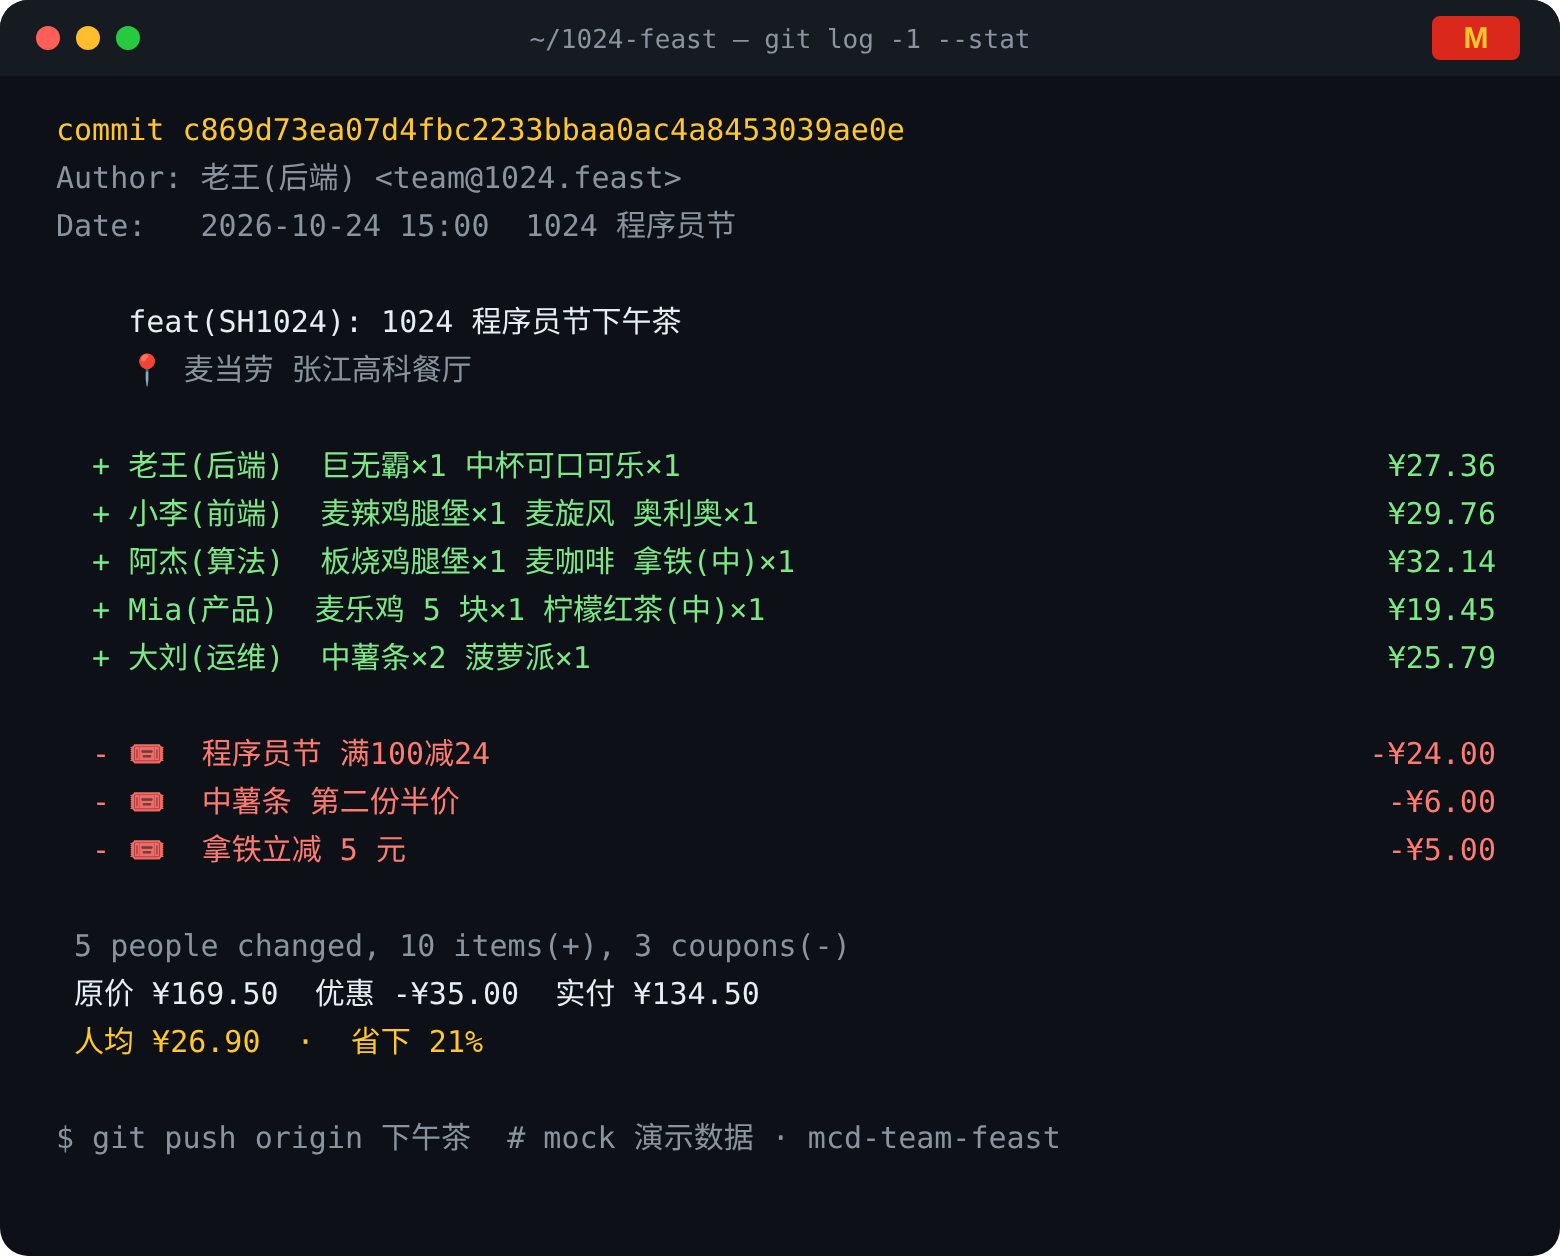
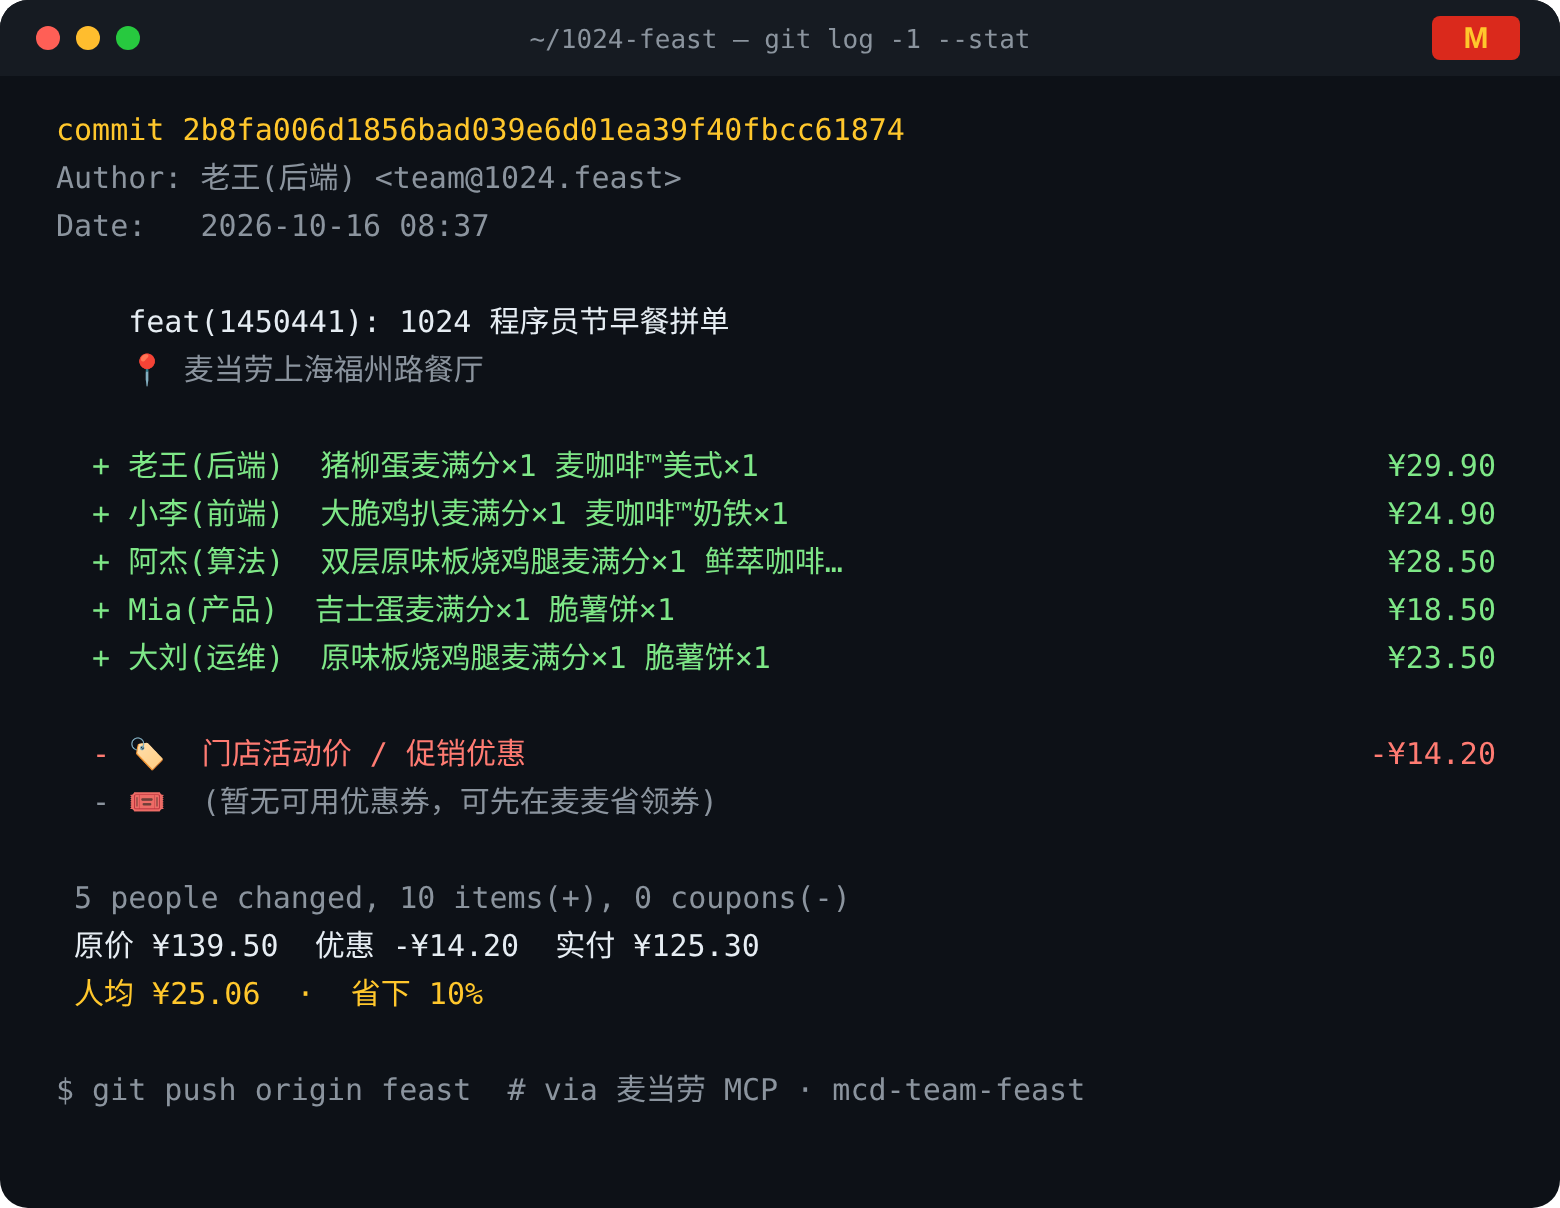
feat: 接入真实麦当劳 MCP schema，修正参数与返回解析，真实数据账单卡

diff --git a/src/providers.js b/src/providers.js
@@ -43,38 +43,85 @@ export function findArray(obj, keys = []) {
   for (const v of Object.values(obj)) { const a = findArray(v, keys); if (a.length) return a; }
   return [];
 }
-const pick = (o, ...ks) => { for (const k of ks) if (o?.[k] != null) return o[k]; };
 
-export class McpProvider {
-  constructor(opts) { this.mode = 'live'; this.c = new McpClient(opts); this.calls = []; }
-  async call(t, a) { this.calls.push({ tool: t, args: a }); return this.c.call(t, a); }
-  async now() { return this.call('now-time-info', {}); }
-  async stores(keyword) {
-    const r = await this.call('query-nearby-stores', { keyword, address: keyword });
-    return findArray(r, ['stores', 'list', 'data']).map(s => ({
-      storeCode: pick(s, 'storeCode', 'code', 'id'), storeName: pick(s, 'storeName', 'name'), address: pick(s, 'address', 'addr'), distance: pick(s, 'distance'),
-    }));
-  }
-  async menu(storeCode) {
-    const r = await this.call('query-meals', { storeCode });
-    return findArray(r, ['meals', 'products', 'items', 'list']).map(m => ({
-      code: String(pick(m, 'code', 'productCode', 'mealCode', 'id')), name: pick(m, 'name', 'productName', 'mealName'),
-      price: Number(pick(m, 'price', 'salePrice', 'currentPrice') ?? 0), category: pick(m, 'category', 'categoryName') ?? '',
-    }));
-  }
-  async coupons(storeCode) {
-    const r = await this.call('query-store-coupons', { storeCode });
-    return findArray(r, ['coupons', 'list']).map(c => ({ id: String(pick(c, 'couponId', 'id', 'couponCode')), title: pick(c, 'title', 'couponName', 'name'), type: 'remote', raw: c }));
-  }
-  async price(storeCode, items, coupons) {
-    const r = await this.call('calculate-price', { storeCode, items: items.map(i => ({ productCode: i.code, quantity: i.qty })), couponIds: coupons.map(c => c.id) });
-    const y = k => fen(pick(r, ...k) ?? pick(r?.data, ...k) ?? 0);
-    const subtotal = y(['productAmount', 'originalAmount', 'subtotal', 'totalAmount']);
-    const total = y(['payAmount', 'realAmount', 'total', 'finalAmount']);
-    const fee = y(['deliveryFee']);
-    return { subtotal, discount: Math.max(0, subtotal + fee - total), total, fee, applied: coupons.map(c => ({ id: c.id, title: c.title })), raw: r };
-  }
-  async createOrder(payload) { return this.call('create-order', payload); }
+// 到店自取场景：orderType=1, beType=1（真实 schema 来自 tools/list）
+const SCENE = { orderType: 1, beType: 1 };
+const unwrap = r => (r && typeof r === 'object' && 'data' in r ? r.data : r);
+
+export function normalizeStores(r) {
+  return findArray(unwrap(r), ['data', 'stores']).map(s => ({
+    storeCode: String(s.storeCode), storeName: s.storeName, address: s.address, distance: s.distance, beCode: s.beCode || undefined,
+  }));
 }
 
-export function makeProvider({ mock }) { return mock ? new MockProvider() : new McpProvider(); }
+// query-meals 返回 { categories:[{name, meals:[{code}]}], meals:{code:{name,currentPrice,originalPrice,discountType}} }
+export function normalizeMenu(r) {
+  const d = unwrap(r) || {}; const detail = d.meals || {}; const seen = new Set(); const out = [];
+  for (const cat of d.categories || []) for (const { code } of cat.meals || []) {
+    const m = detail[code]; if (!m || seen.has(code)) continue; seen.add(code);
+    // “随单购xx卡优惠”价需额外购卡才能享受，拼单场景按原价计
+    const price = Number(String(m.discountType || '').includes('随单购') ? (m.originalPrice ?? m.currentPrice) : m.currentPrice);
+    out.push({ code: String(code), name: m.name, price, category: String(cat.name).replace(/\s+/g, ' ') });
+  }
+  return out;
+}
+
+// query-store-coupons 返回 data[]：{couponId, couponCode, title, products:[{productCode}]}，同一 couponId 可有多张券码
+export function normalizeCoupons(r) {
+  const groups = new Map();
+  for (const c of findArray(unwrap(r), ['data', 'coupons'])) {
+    const id = String(c.couponId);
+    const g = groups.get(id) || { id, title: c.title, type: 'item', codes: [], itemCodes: (c.products || []).map(p => String(p.productCode)) };
+    if (c.couponCode) g.codes.push(String(c.couponCode)); groups.set(id, g);
+  }
+  return [...groups.values()];
+}
+
+// 把券挂到对应商品行：拆出 1 份带 couponId/couponCode 的商品
+export function buildPriceItems(items, coupons = []) {
+  const lines = items.map(i => ({ productCode: i.code, quantity: i.qty }));
+  for (const c of coupons) {
+    const line = lines.find(l => !l.couponId && c.itemCodes?.includes(l.productCode) && l.quantity >= 1);
+    if (!line) return null;
+    line.quantity -= 1;
+    lines.push({ productCode: line.productCode, quantity: 1, couponId: c.id, ...(c.codes?.[0] ? { couponCode: c.codes[0] } : {}) });
+  }
+  return lines.filter(l => l.quantity > 0);
+}
+
+// calculate-price 返回金额单位为“分”
+export function normalizePrice(r, coupons = []) {
+  const d = unwrap(r) || {};
+  const subtotal = Number(d.productOriginalPrice ?? d.originalPrice ?? 0);
+  const total = Number(d.price ?? 0);
+  const fee = Number(d.deliveryFee ?? d.deliveryPrice ?? 0);
+  return { subtotal, total, fee, discount: Math.max(0, Number(d.discount ?? (subtotal + fee - total))), applied: coupons.map(c => ({ id: c.id, title: c.title })), takeWayList: d.takeWayList || [] };
+}
+
+export class McpProvider {
+  constructor(opts) { this.mode = 'live'; this.c = new McpClient(opts); this.calls = []; this.city = opts?.city; }
+  async call(t, a) { this.calls.push({ tool: t, args: a }); return this.c.call(t, a); }
+  async now() {
+    const d = unwrap(await this.call('now-time-info', {})) || {};
+    const [date, time] = String(d.formatted || '').split(' ');
+    return { date, time: time?.slice(0, 5), festival: date?.endsWith('-10-24') ? '1024 程序员节' : '' };
+  }
+  async stores(keyword, city = this.city) {
+    const args = { ...SCENE, searchType: 2, ...(keyword ? { keyword } : {}), ...(city ? { city } : {}) };
+    delete args.orderType;
+    return normalizeStores(await this.call('query-nearby-stores', args));
+  }
+  async menu(storeCode) { return normalizeMenu(await this.call('query-meals', { storeCode, ...SCENE })); }
+  async coupons(storeCode) { return normalizeCoupons(await this.call('query-store-coupons', { storeCode, ...SCENE })); }
+  async price(storeCode, items, coupons = []) {
+    const lines = buildPriceItems(items, coupons);
+    if (!lines) return null;
+    return normalizePrice(await this.call('calculate-price', { storeCode, ...SCENE, items: lines }), coupons);
+  }
+  // 仅在 feast order --confirm <确认码> 时调用
+  async createOrder({ storeCode, items, coupons = [], takeWayCode = 'take-in-store' }) {
+    return this.call('create-order', { storeCode, ...SCENE, takeWayCode, items: buildPriceItems(items, coupons) });
+  }
+}
+
+export function makeProvider({ mock, city }) { return mock ? new MockProvider() : new McpProvider({ city }); }

diff --git a/test/live-shape.test.js b/test/live-shape.test.js
@@ -1,0 +1,38 @@
+// 用与真实麦当劳 MCP 返回结构一致的脱敏样例测试解析逻辑（不发起任何网络请求）
+import { test } from 'node:test';
+import assert from 'node:assert/strict';
+import { normalizeStores, normalizeMenu, normalizeCoupons, buildPriceItems, normalizePrice } from '../src/providers.js';
+import { extractJson } from '../src/mcp.js';
+
+test('从“字段说明 + 原始 JSON”文本中提取 JSON', () => {
+  const t = '## Response Structure\n- **data**: ...\n## Original Response\n\n{"success":true,"code":200,"data":{"date":"2026-10-24"}}';
+  assert.equal(extractJson(t).data.date, '2026-10-24');
+});
+
+test('解析 query-nearby-stores', () => {
+  const s = normalizeStores({ success: true, data: [{ storeCode: '1450441', storeName: '麦当劳上海福州路餐厅', address: '福州路666号', distance: 235, beCode: '' }] });
+  assert.deepEqual(s[0], { storeCode: '1450441', storeName: '麦当劳上海福州路餐厅', address: '福州路666号', distance: 235, beCode: undefined });
+});
+
+test('解析 query-meals：去重、分类、随单购价按原价', () => {
+  const m = normalizeMenu({ data: {
+    categories: [{ name: '人气热卖', meals: [{ code: 'A' }, { code: 'B' }] }, { name: '小食甜品\n/其他', meals: [{ code: 'A' }, { code: 'C' }] }],
+    meals: { A: { name: '派', currentPrice: '8.5' }, B: { name: '套餐', currentPrice: '13.2', originalPrice: '22', discountType: '随单购早餐卡优惠' }, C: { name: '脆薯饼', currentPrice: '8.5' } },
+  } });
+  assert.deepEqual(m.map(x => [x.code, x.price, x.category]), [['A', 8.5, '人气热卖'], ['B', 22, '人气热卖'], ['C', 8.5, '小食甜品 /其他']]);
+});
+
+test('解析 query-store-coupons 并把券挂到商品行', () => {
+  const cs = normalizeCoupons({ data: [
+    { couponId: 'X1', couponCode: 'c1', title: '派立减', products: [{ productCode: 'A' }] },
+    { couponId: 'X1', couponCode: 'c2', title: '派立减', products: [{ productCode: 'A' }] },
+  ] });
+  assert.equal(cs.length, 1); assert.deepEqual(cs[0].codes, ['c1', 'c2']);
+  assert.deepEqual(buildPriceItems([{ code: 'A', qty: 2 }], cs), [{ productCode: 'A', quantity: 1 }, { productCode: 'A', quantity: 1, couponId: 'X1', couponCode: 'c1' }]);
+  assert.equal(buildPriceItems([{ code: 'Z', qty: 1 }], cs), null);
+});
+
+test('解析 calculate-price（单位：分）', () => {
+  const p = normalizePrice({ data: { productOriginalPrice: 13950, originalPrice: 13950, discount: 1420, price: 12530 } });
+  assert.deepEqual([p.subtotal, p.discount, p.total, p.fee], [13950, 1420, 12530, 0]);
+});

diff --git a/src/card.js b/src/card.js
@@ -25,13 +25,16 @@ export function receiptLines({ team, bill, plan, mode, now }) {
   }
   L.push(['n', '']);
   for (const a of plan.applied) L.push(['r', `  - 🎟  ${clip(a.title, 36)}`, a.discount != null ? `-¥${yuan(a.discount)}` : '']);
-  if (!plan.applied.length) L.push(['d', '  - 🎟  (无可用优惠券)']);
+  const couponOff = plan.applied.reduce((s, a) => s + (a.discount || 0), 0);
+  const promo = plan.applied.some(a => a.discount == null) ? 0 : plan.discount - couponOff;
+  if (promo > 0) L.push(['r', '  - 🏷  门店活动价 / 促销优惠', `-¥${yuan(promo)}`]);
+  if (!plan.applied.length) L.push(['d', '  - 🎟  (暂无可用优惠券，可先在麦麦省领券)']);
   L.push(['n', '']);
   L.push(['d', ` ${bill.people.length} people changed, ${bill.people.reduce((s, p) => s + p.items.length, 0)} items(+), ${plan.applied.length} coupons(-)`]);
   L.push(['w', ` 原价 ¥${yuan(plan.subtotal)}  优惠 -¥${yuan(plan.discount)}  实付 ¥${yuan(plan.total)}`]);
   L.push(['y', ` 人均 ¥${yuan(bill.avg)}  ·  省下 ${plan.subtotal ? Math.round(plan.discount * 100 / plan.subtotal) : 0}%`]);
   L.push(['n', '']);
-  L.push(['d', `$ git push origin 下午茶  # ${mode === 'mock' ? 'mock 演示数据' : 'via 麦当劳 MCP'} · mcd-team-feast`]);
+  L.push(['d', `$ git push origin feast  # ${mode === 'mock' ? 'mock 演示数据' : 'via 麦当劳 MCP'} · mcd-team-feast`]);
   return L;
 }
 

diff --git a/src/mcp.js b/src/mcp.js
@@ -35,7 +35,7 @@ export class McpClient {
     if (r.isError) throw new Error(`工具 ${name} 返回错误: ${contentText(r)}`);
     if (r.structuredContent) return r.structuredContent;
     const t = contentText(r);
-    try { return JSON.parse(t); } catch { return { text: t }; }
+    return extractJson(t);
   }
 }
 export function contentText(r) { return (r.content || []).filter(c => c.type === 'text').map(c => c.text).join('\n'); }
@@ -45,4 +45,12 @@ export function parseResponse(text, id) {
   // SSE: 取 data: 行里 id 匹配的消息
   const msgs = t.split(/\n\n+/).map(ev => ev.split('\n').filter(l => l.startsWith('data:')).map(l => l.slice(5).trim()).join('\n')).filter(Boolean).map(d => JSON.parse(d));
   return msgs.find(m => m.id === id) || msgs[msgs.length - 1] || {};
+}
+
+// 文本里常是“字段说明 + 原始 JSON”，取最后一个 {"success" 开头的 JSON
+export function extractJson(t) {
+  try { return JSON.parse(t); } catch {}
+  const i = t.lastIndexOf('{"success"');
+  if (i >= 0) { try { return JSON.parse(t.slice(i)); } catch {} }
+  return { text: t };
 }

diff --git a/README.md b/README.md
@@ -15,7 +15,7 @@
 
 <img src="assets/feast-receipt.png" width="720" alt="麦麦拼单账单卡示例" />
 
-<sub>↑ 由 `npx github:Jasonin2099/mcd-team-feast demo --mock` 实际生成（示例数据）</sub>
+<sub>↑ 接入真实麦当劳 MCP，在上海福州路餐厅实时计价生成（成员为化名，仅计价未下单）</sub>
 
 </div>
 
@@ -50,7 +50,7 @@
 npx github:Jasonin2099/mcd-team-feast demo --mock
 ```
 
-当前目录会生成 `feast-receipt.png`（本机装有 Chrome 时）、`feast-receipt.svg` 和 `feast-receipt.html`。
+当前目录会生成（mock 数据为虚构示例） `feast-receipt.png`（本机装有 Chrome 时）、`feast-receipt.svg` 和 `feast-receipt.html`。
 
 ### 2. 接入真实麦当劳 MCP
 
@@ -66,11 +66,12 @@ export MCD_MCP_TOKEN=你的token   # 切勿提交到仓库
 ```bash
 alias feast="npx -y github:Jasonin2099/mcd-team-feast"
 
-feast stores 张江               # 查门店，拿到门店编码
-feast new --store <门店编码> --title "1024 程序员节下午茶" --by 老王
-feast pick 小李 麦辣鸡腿堡
-feast pick 小李 可乐
-feast pick 阿杰 拿铁 2
+feast stores 福州路 --city 上海   # 查门店，拿到门店编码
+feast new --store 1450441 --near 福州路 --city 上海 --title "1024 程序员节下午茶" --by 老王
+feast menu                      # 菜单随时段变化（早餐/正餐）
+feast pick 小李 麦咖啡™美式
+feast pick 小李 脆薯饼
+feast pick 阿杰 派 2
 feast list                      # 看看谁还没报名
 feast checkout --out ./out      # 凑单 + 最优券 + 人均 + 账单卡
 feast order --confirm 3f9a1c    # 核对无误后才下单，返回支付链接
@@ -87,14 +88,14 @@ feast order --confirm 3f9a1c    # 核对无误后才下单，返回支付链接
 | 命令 | 说明 |
 |---|---|
 | `demo` | 一键演示：开团 → 5 人点餐 → 自动用券 → 分账 → 账单卡 |
-| `stores [关键词]` | 查询附近门店 |
+| `stores [关键词] [--city 城市]` | 查询门店 |
 | `new --store <编码> [--title] [--by]` | 开团并缓存菜单 |
 | `menu` | 查看菜单 |
 | `pick <名字> <餐品> [数量]` | 报名点餐 |
 | `drop <名字>` | 删除某人的选择 |
 | `list` | 查看当前团 |
 | `checkout [--out 目录]` | 结算并生成账单卡 |
-| `order --confirm <确认码>` | 真正下单（必须确认） |
+| `order --confirm <确认码> [--takeway take-in-store\|eat-in]` | 真正下单（必须确认，默认外带自提） |
 | `tools` | 列出 MCP 工具及参数 |
 
 所有命令都支持 `--mock`；团的状态保存在当前目录的 `.feast.json`（可用 `--file` 指定）。

diff --git a/MCP_INTEGRATION.md b/MCP_INTEGRATION.md
@@ -27,6 +27,26 @@
 | `campaign-calendar` | 查询当月活动，提示是否有节日专属优惠 | `SKILL.md` |
 | `list-nutrition-foods` | 为控卡同事提供热量参考 | `SKILL.md` |
 
+## 实际调用参数（以 `tools/list` 返回的 schema 为准，到店自取场景）
+
+| Tool | 关键入参 | 解析的返回字段 |
+|---|---|---|
+| `query-nearby-stores` | `beType=1, searchType=2, city, keyword` | `data[].storeCode / storeName / address / distance` |
+| `query-meals` | `storeCode, orderType=1, beType=1` | `data.categories[].meals[].code` + `data.meals{code}.name / currentPrice / originalPrice / discountType` |
+| `query-store-coupons` | `storeCode, orderType=1, beType=1` | `data[].couponId / couponCode / title / products[].productCode`（同一券 ID 多张券码按 ID 分组） |
+| `calculate-price` | `storeCode, orderType=1, beType=1, items[{productCode, quantity, couponId?, couponCode?}]` | `data.productOriginalPrice / discount / price`（单位：分），`takeWayList[]` |
+| `create-order` | 同上 + `takeWayCode`（取自 `takeWayList[].code`，如 `take-in-store`） | 订单号 / 支付链接 |
+| `now-time-info` | 无 | `data.formatted` |
+
+说明：
+- 优惠券是**挂在商品行上**的：本项目会为每张候选券拆出 1 份对应商品，带上 `couponId/couponCode` 交给 `calculate-price` 计价。
+- 菜单中“随单购早餐卡/麦金卡优惠”价需额外购卡才能享受，拼单场景按原价计。
+- 分账以 `calculate-price` 的实付为准：各人菜单价之和与实付的差额作为优惠按比例分摊，保证 Σ每人应付 = 实付。
+
+## 真实运行样例（2026-10-16，上海福州路餐厅，仅计价未下单）
+
+5 人点 10 件早餐单品：原价 ¥139.50，门店活动价优惠 ¥14.20，实付 **¥125.30**，人均 ¥25.06（账单卡见 README）。
+
 ## 调用流程
 
 ```mermaid
